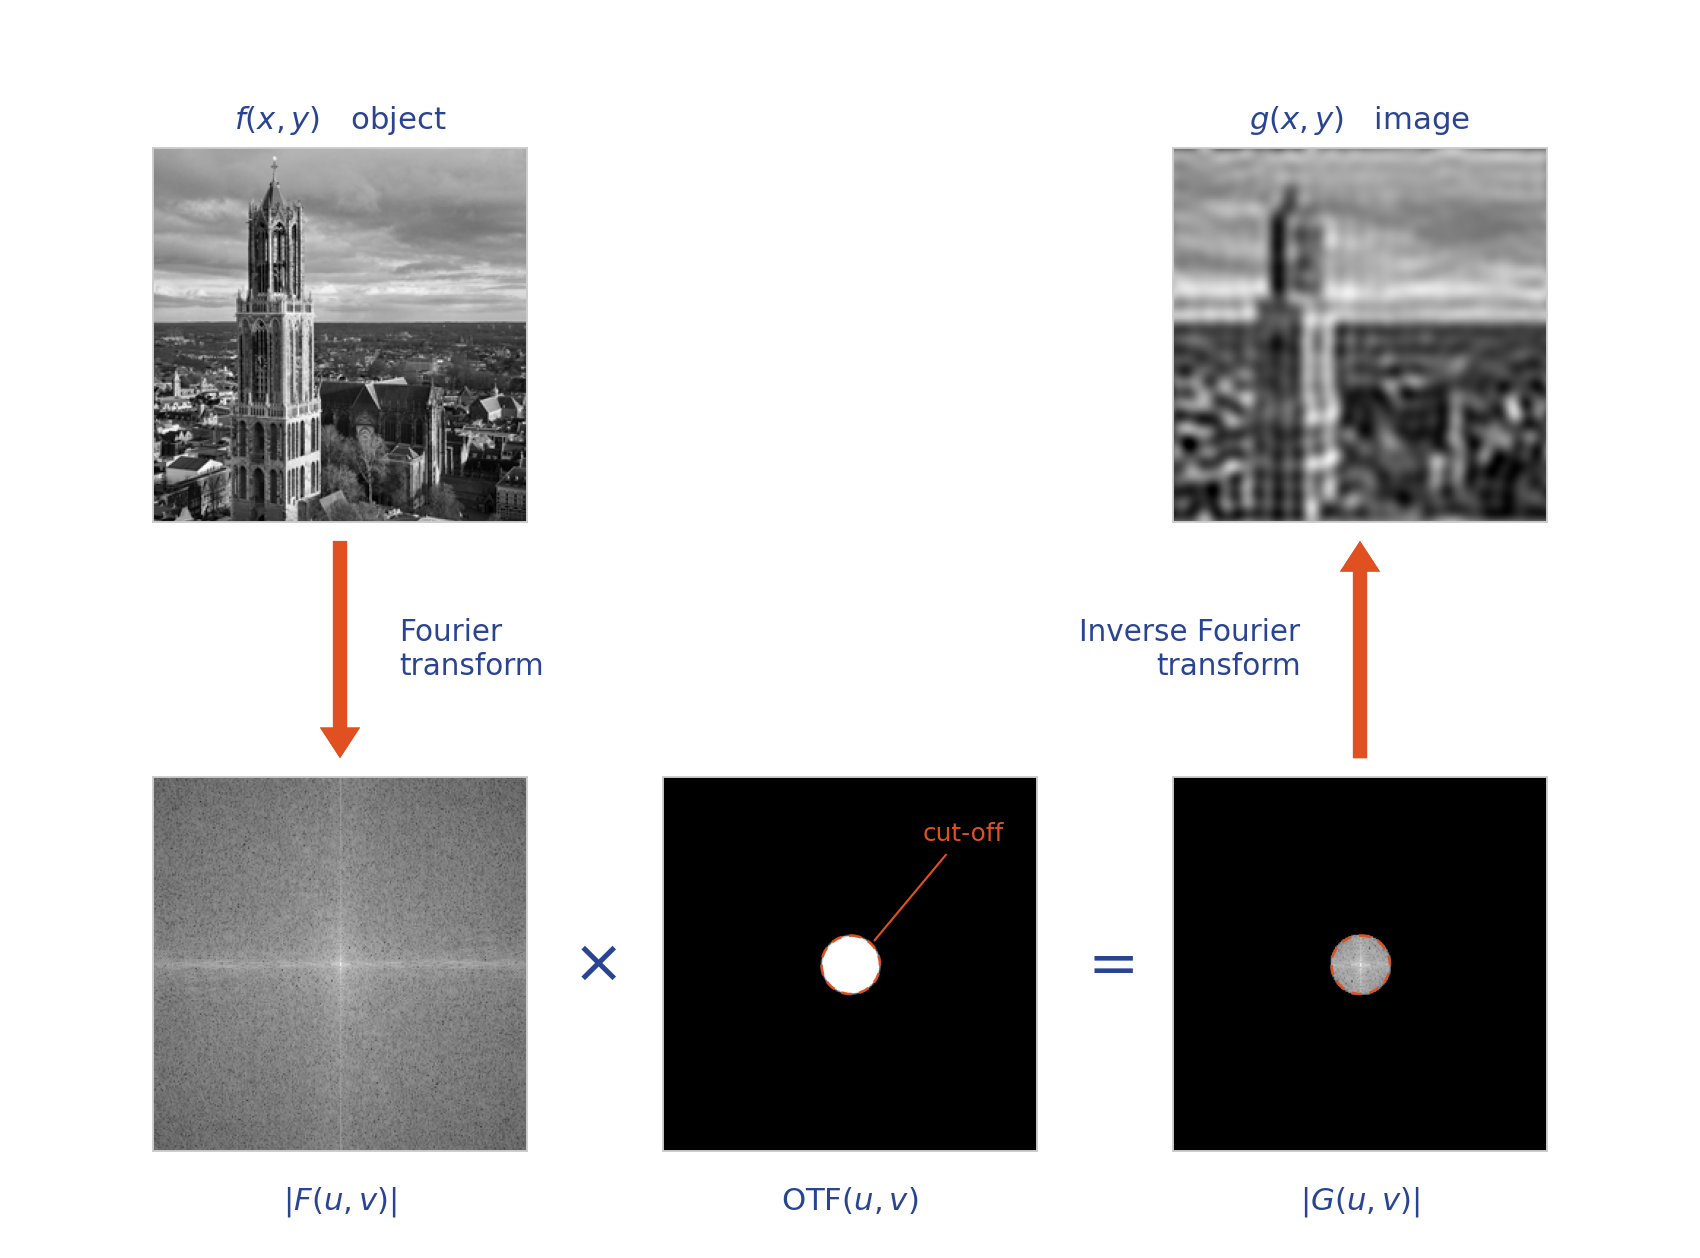
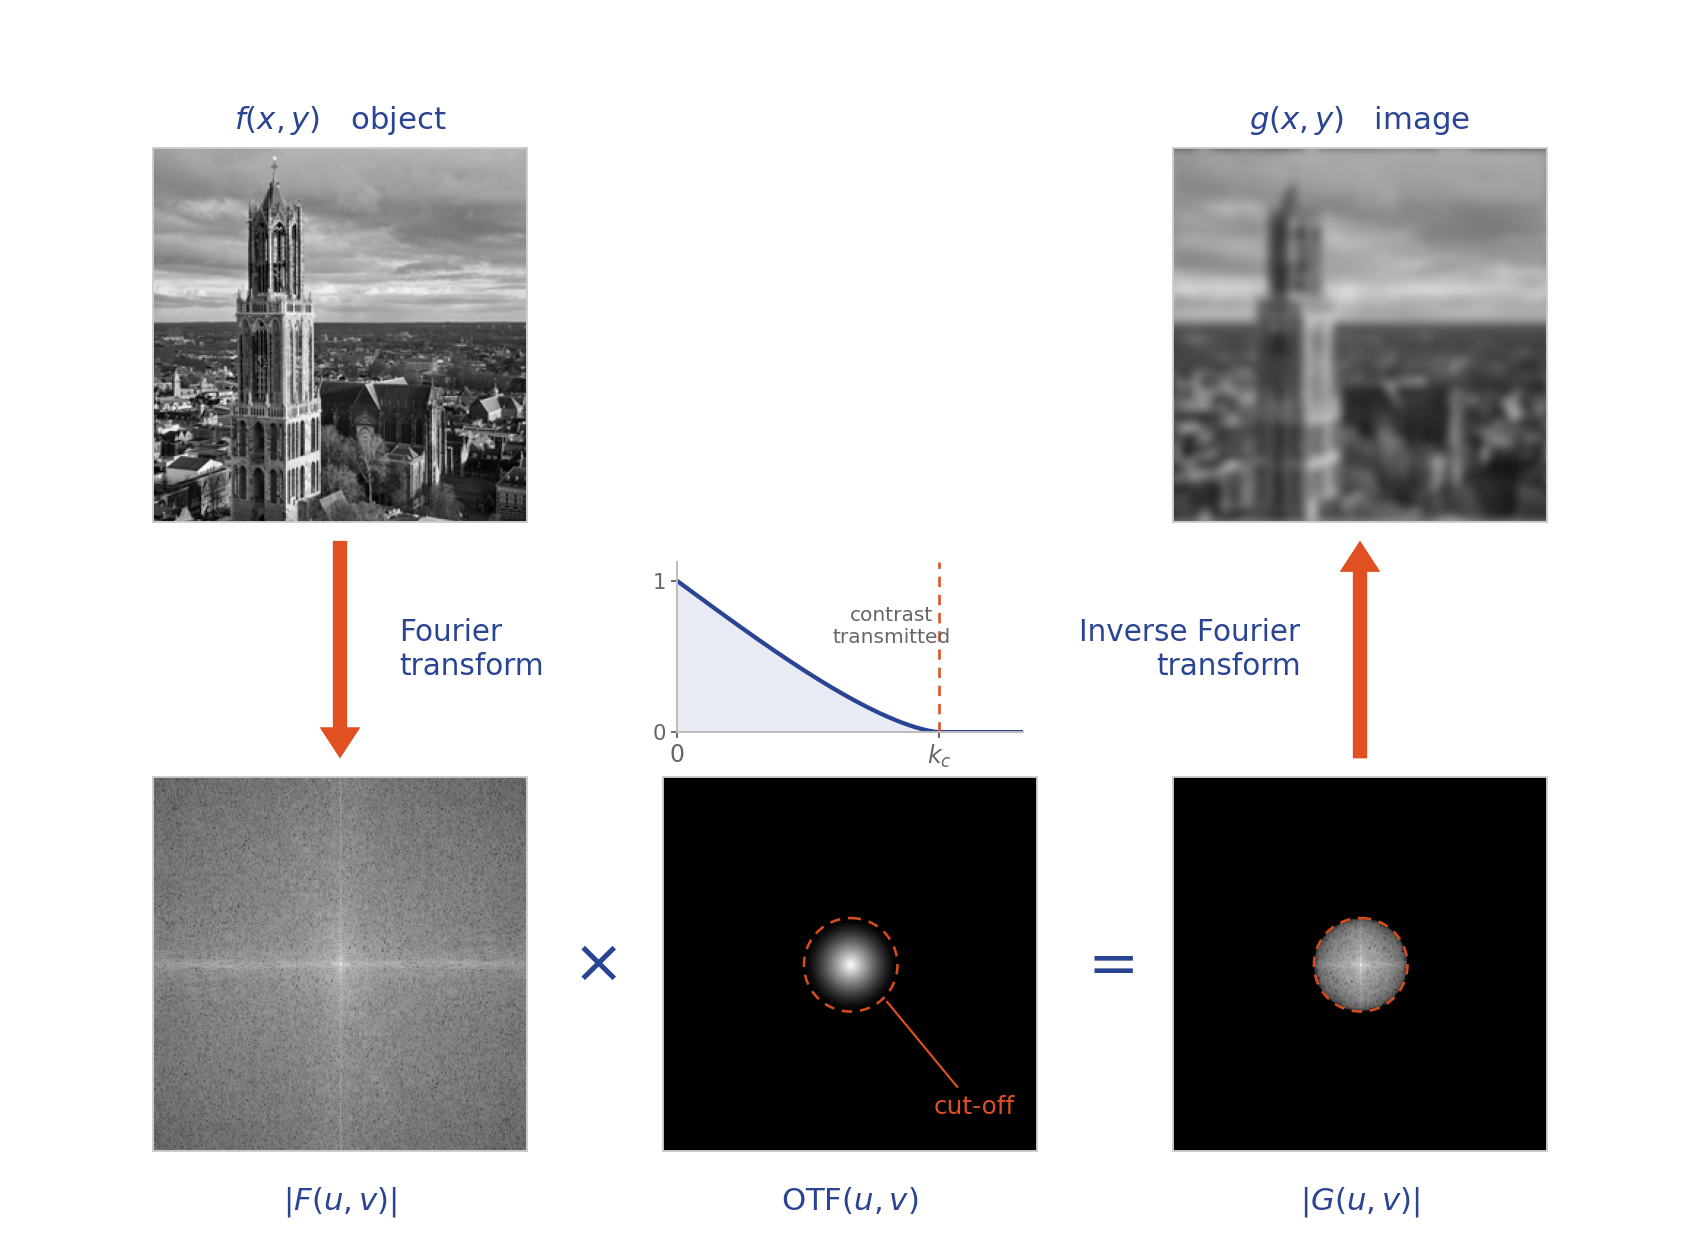
update

diff --git a/book/content/chap6_3.md b/book/content/chap6_3.md
@@ -1,6 +1,6 @@
 # Fourier optics in microscopy
 
-So far we have built the machinery: in the far field we measure the Fourier transform of the object, a converging lens brings that transform into its back focal plane, and the finite objective behaves like a circular aperture that discards the high spatial frequencies, spreading every point into an Airy disk. All of this was, admittedly, rather abstract. In this section we cash in that theory. We will learn to look at an image as a spectrum of spatial frequencies, to describe blurring as a single elegant operation called convolution, and to understand precisely what image processing can and cannot recover. These ideas underpin deconvolution, pixel reassignment and even the way we honestly measure the resolution of a microscope from the data itself.
+So far we have built the machinery: in the far field we measure the Fourier transform of the object, a converging lens brings that transform into its back focal plane, and the finite objective behaves like a circular aperture that discards the high spatial frequencies, spreading every point into an Airy disk. In this section we try to talk more practically about images in terms of spatial frequencies, to describe blurring as a single elegant operation called convolution, and to understand precisely what image processing can and cannot recover.
 
 ## Images in terms of spatial frequencies
 
@@ -21,11 +21,13 @@ This is the heart of the matter. Any image, no matter how complicated, can be wr
 
 There is a simple and extremely useful rule for reading these maps. The **center of the transform holds the low frequencies**: the coarse, slowly varying content, the overall shapes and the average brightness. The **outskirts hold the high frequencies**: the sharp edges, the fine textures and the small details. This is precisely the intuition we met with the rolling hills at the start of the chapter, where the smooth sky sat at the lowest frequencies and the grass blades at the highest, now made quantitative.
 
+### Types of filters
+
 Take the transform of a photograph, erase everything outside a small disk around the center, and transform back. Out comes the same picture, softened. The outlines are still there, the fine texture has gone. Now do the opposite and erase the middle instead. The uniform areas collapse to a flat grey, the overall brightness vanishes, and what is left behind is a map of edges. Nothing was added to the image in either case. We only chose which gratings to keep.
 
-Those two experiments have names, and between them they cover most of what filtering does to a picture. A **low-pass** filter keeps the central disk and throws away the rest, which smooths the image and, since noise lives mostly out at high frequencies, removes a good deal of it. The bill is paid in genuine fine detail, which lived out there too. A Gaussian blur is a low-pass filter with a soft edge, nothing more. A **high-pass** filter blocks the center instead. It sharpens edges, but its real use in the lab is more mundane: uneven illumination, a haze of out-of-focus fluorescence, a gradient left by a badly seated filter, all of it varies slowly across the field and therefore lives at the very lowest frequencies, and a high-pass strips it out without touching the structures you actually care about.
+Those two experiments have names, and between them they cover most of what filtering does to a picture. A **low-pass** filter keeps the central disk and throws away the rest, which smooths the image and, since noise lives mostly out at high frequencies, removes a good deal of it. The bill is paid in genuine fine detail, which lived out there too. A Gaussian blur is a low-pass filter with a soft edge, nothing more. A **high-pass** filter blocks the center instead. It sharpens edges, but its real use in the lab is more mundane: uneven illumination, a haze of out-of-focus fluorescence, a gradient left by a badly seated filter, all vary slowly across the field and therefore lives at the very lowest frequencies, and a high-pass strips it out without touching the structures you actually care about.
 
-A **band-pass** filter keeps a ring, so it selects a size. Anything much coarser than the chosen scale goes out with the background, anything much finer goes out with the noise, and what survives is whatever sits in between. Most spot detectors work this way; the difference-of-Gaussians used to pick out fluorescent puncta is a band-pass filter written in another notation. A **directional** filter keeps a wedge, so it selects an orientation. Here it pays to remember where the spots of a grating sit: along the direction in which the brightness varies, which is across the stripes and not along them. A wedge therefore keeps the structures that run at right angles to it, and that catches almost everyone out the first time.
+A **band-pass** filter keeps a ring, so it selects a size. Anything much coarser than the chosen scale goes out with the background, anything much finer goes out with the noise, and what survives is whatever sits in between. Most spot detectors work this way. A **directional** filter keeps a wedge, so it selects an orientation. Here it pays to remember where the spots of a grating sit: along the direction in which the brightness varies, which is across the stripes and not along them. A wedge therefore removes the structures that run orthogonally to it and keeps the others.
 
 :::{raw} html
 <center><iframe src="../content/spatial_filter_widget.html" width="90%" height="800px" frameborder="0" style="border: none;"></iframe></center>
@@ -33,17 +35,17 @@ A **band-pass** filter keeps a ring, so it selects a size. Anything much coarser
 
 ### Filtering in the back focal plane
 
-If the aperture of the objective acts as a mask, then the Fourier plane is not a mathematical convenience. It is a real plane, a few millimetres across, sitting inside the instrument. We saw earlier in this chapter that a lens brings the far field of the sample into its back focal plane, which means the spectrum of your specimen is physically laid out in there, waiting. You can reach in with a piece of metal and edit it. Several of the classical contrast methods are nothing more than that, and it is worth recognising them for what they are.
+If the aperture of the objective acts as a mask, then the Fourier plane is a real plane sitting inside the instrument. We saw earlier in this chapter that a lens brings the far field of the sample into its back focal plane, which means the spectrum of your specimen is physically laid out in there. Several of the classical contrast methods do nothing more than employing some sort of filtering in the Fourier plane.
 
-Place an opaque disk on the axis and you block the zero order: the undiffracted light, the part of the beam that went through the sample without noticing it, which is the DC term and sits dead center in the back focal plane. Everything that then reaches the image has been scattered by the specimen. The background goes black and the scatterers light up. This is **darkfield**, and in the language of this section it is a high-pass filter machined out of brass. In practice it is usually arranged from the illumination side instead, with a hollow cone of light steep enough to miss the objective entirely, but the effect on the spectrum is the same: the zero order is kept out of the image.
+Place an opaque disk on the axis and you block the zero order (the undiffracted light, the part of the beam that went through), which sits in the center of the back focal plane. Everything that then recombines to form the image has been scattered by the specimen and contains information about it. The background goes black and the scatterers light up. This is exactly what we measure in **darkfield** microscopy, and in the language of this section it is a simple high-pass filter.
 
-The reverse trick is just as common. Put a pinhole at the focus of a beam expander and only the low frequencies of the beam survive, so the speckle and the diffraction rings cast by every speck of dust upstream disappear. Every laser system in the building has one. It is called a spatial filter because that is what it is.
+The reverse trick is just as common. Put a pinhole at the focus of a beam expander and only the low frequencies of the beam survive, so the speckle and the diffraction rings cast by every speck of dust upstream disappear.
 
 ### Noise in the Fourier space
 
-Everything we have done so far assumed a clean image. Real measurements are not clean, and noise is the reason spatial filtering is useful rather than magical. In fluorescence microscopy the dominant contribution is _shot noise_: light arrives as discrete photons, and the number counted in a pixel during the exposure follows a Poisson distribution, so it fluctuates from pixel to pixel even when the sample is perfectly uniform. On top of it sits the read noise of the detector. What matters for us is a property both share: the fluctuation in one pixel is independent of the fluctuation in its neighbours.
+Everything we have done so far assumed a clean image, but real measurements are acually always affected by noise. In fluorescence microscopy the dominant contribution is _shot noise_: light arrives as discrete photons, and the number counted in a pixel during the exposure follows a Poisson distribution. Shot noise fluctuates from pixel to pixel even when the sample is perfectly uniform. On top of it sits the _read noise_ of the detector. What matters for us is a property both share: the fluctuation in one pixel is independent of the fluctuation in its neighbours.
 
-That single property decides everything about how noise looks in Fourier space. Transforming noise produces no compact feature at all, but simply another random field, with, on average, the same power at every spatial frequency. This is what is meant by calling such noise **white**. The transform of noise is noise ({numref}`Fig. {number} <noise_fourier>`), spread thinly and evenly over the entire spectrum, and there is nowhere to aim a mask.
+Transforming noise produces only another random field of noise, with, on average, the same power at every spatial frequency. This is what is meant when we refer to this as **white noise** (just like the color white, containing all the visible frequencies). The transform of noise is noise ({numref}`Fig. {number} <noise_fourier>`), spread evenly over the entire spectrum.
 
 ```{figure} ../figures/chap6_noise_fourier.png
 ---
@@ -51,10 +53,10 @@ width: 100%
 name: noise_fourier
 align: center
 ---
-Noise transforms into noise. The noise alone (left) is grainy in real space and just as grainy in Fourier space, filling the spectrum uniformly rather than collecting anywhere. The noise-free image (centre) has a spectrum concentrated near the origin. The measured image (right) is the sum of the two, so its spectrum is the signal near the centre and the noise floor everywhere, including out where the signal has almost nothing left to say. Photograph by Krzysztof P. Jasiutowicz, CC BY-SA 2.5, via Wikimedia Commons.
+Noise transforms into noise. The noise alone (left) is grainy in real space and just as grainy in Fourier space, filling the spectrum uniformly rather than collecting anywhere. The noise-free image (centre) has a spectrum concentrated near the origin. The measured image (right) is the sum of the two, so its spectrum is dominated by the signal near the centre and by the noise everywhere else. Photograph by Krzysztof P. Jasiutowicz, CC BY-SA 2.5, via Wikimedia Commons.
 ```
 
-Now put the two spectra side by side. The signal is concentrated at low frequencies and its power falls steeply as we move outwards, while the noise floor stays flat all the way to the edge. The two curves must therefore cross ({numref}`Fig. {number} <noise_spectra>`). Below the crossing the image is mostly signal; above it, mostly noise.
+Now let's put the two spectra side by side. The signal is concentrated at low frequencies and its power falls steeply as we move outwards, while the noise floor stays flat all the way to the edge. The two curves must therefore cross ({numref}`Fig. {number} <noise_spectra>`). Below the crossing the image is mostly signal; above it, mostly noise.
 
 ```{figure} ../figures/chap6_noise_spectra.png
 ---
@@ -65,31 +67,29 @@ align: center
 Radially averaged power of the three images above. The signal (blue) falls by more than four orders of magnitude across the spectrum, while the noise (grey) is flat. Beyond the frequency where they cross, the measured image (orange) is essentially pure noise.
 ```
 
-This picture explains both the power and the limits of filtering. Its power: a low-pass filter placed near the crossing throws away the band where there is almost no signal left to lose and a great deal of noise to gain by discarding, which is why smoothing genuinely improves the appearance of a noisy image. Its limit: below the crossing, signal and noise sit at exactly the same spatial frequencies, superimposed. A mask can only multiply a frequency as a whole; it has no way of telling which part of the amplitude at that frequency came from the sample and which part came from the photon statistics. Filtering can improve the signal-to-noise ratio by removing the frequencies where noise dominates, but it can never remove noise completely, and every attempt to push it further removes real detail along with it.
+This picture explains both the power and the limits of filtering. In fact, a low-pass filter placed near the crossing throws away the band where there is almost no signal left to lose and a great deal of noise to gain by discarding, which is why smoothing genuinely improves the appearance of a noisy image. At the same time, below the crossing, signal and noise sit at exactly the same spatial frequencies, superimposed. A mask can only multiply a frequency as a whole; it has no way of telling which part of the amplitude at that frequency came from the sample and which part came from the photon statistics. Filtering can improve the signal-to-noise ratio by removing the frequencies where noise dominates, but it can never remove noise completely, and every attempt to push it further removes real detail along with it.
 
-The only honest cure is more photons. Averaging $n$ independent frames adds the signal coherently and the noise incoherently, improving the signal-to-noise ratio by $\sqrt{n}$ and pushing the crossing point outwards. Keep that crossing in mind for the next two sections. Deconvolution, which is coming shortly, works by boosting the frequencies that the microscope transmitted weakly, and the more weakly a frequency was transmitted the harder it has to be boosted; where the response of the instrument nearly vanishes, the boost lands almost entirely on noise. Fourier Ring Correlation, at the end of the chapter, turns the same fact to its advantage: the noise in two independent acquisitions is uncorrelated while the signal is identical, so two recordings of the same sample stop agreeing with one another right about where the noise takes over.
+The only honest cure is to collect more photons. Averaging $n$ independent frames adds the signal coherently and the noise incoherently, improving the signal-to-noise ratio by $\sqrt{n}$ and pushing the crossing point outwards. 
 
 ## Convolution
 
-We are now ready for what is arguably the most important equation in this whole chapter. Every real image is a blurred version of the true object, and the blurring agent is the point spread function. Because the imaging system responds to each individual point of the object by drawing a PSF there, scaled by how bright that point is, the recorded image is built by stamping a copy of the PSF at every object point and summing them all up. This "stamp everywhere and add" operation is called a **convolution**, written with the symbol $\ast$:
+Every real image is a blurred version of the true object, and the blurring agent is the point spread function. Because the imaging system responds to each individual point of the object by drawing a PSF there, scaled by how bright that point is, the recorded image is built by stamping a copy of the PSF at every object point and summing them all up. This "stamp everywhere and add" operation is called a **convolution**, written with the symbol $\ast$:
 
 $$
 i(\vec r) = (o \ast \text{PSF})(\vec r) = \int o(\vec r\,') \, \text{PSF}(\vec r - \vec r\,') \, d\vec r\,'
 $$
 
-where $o$ is the true object, $i$ is the measured image and PSF is the point spread function. In words: the image is the object convolved with the point spread function. This single line summarizes image formation in a microscope.
+where $o$ is the true object, $i$ is the measured image and PSF is the point spread function. In words: the image is the object convolved with the point spread function.
 
-Convolutions are awkward to compute and even more awkward to reason about directly. This is where Fourier optics rewards us greatly, through the **convolution theorem**: a convolution in real space becomes a plain multiplication in frequency space. Transforming the equation above, we get
+Convolutions are awkward to compute and even more awkward to reason about in intuitive terms. This is where Fourier optics comes in handy, through the **convolution theorem**: a convolution in real space becomes a plain multiplication in frequency space. Transforming the equation above, we get
 
 $$
 \hat i(\vec k) = \hat o(\vec k) \cdot \text{OTF}(\vec k)
 $$
 
-where the hats denote Fourier transforms and $\text{OTF} = \mathcal{F}\{\text{PSF}\}$ is the **optical transfer function**. Its modulus is called the modulation transfer function (MTF) and tells us how strongly each spatial frequency survives the trip through the microscope. The OTF is nothing other than the low-pass filter we have been describing: it is close to one for low frequencies, decreases towards higher frequencies, and drops to exactly zero beyond a cutoff set by the numerical aperture (for incoherent imaging, at a spatial frequency of $2\,\text{NA}/\lambda$). Frequencies past that cutoff are not merely attenuated; they are absent.
+where the hats denote Fourier transforms and $\text{OTF} = \mathcal{F}\{\text{PSF}\}$ is the **optical transfer function**. Its modulus tells us how strongly each spatial frequency survives the trip through the microscope. The OTF is nothing other than the low-pass filter we have been describing: it is close to one for low frequencies, decreases towards higher frequencies, and drops to exactly zero beyond a cutoff set by the numerical aperture.
 
 ### The resolution limit is a spatial filtering problem
-
-We have now called the objective a low-pass filter twice without saying what the filter actually is. Everything is in place to be precise, and the answer is that the microscope performs, in glass, exactly the operation we have been performing in software.
 
 Recall the two equivalent statements of image formation: in real space, the image is the object convolved with the point spread function, and in Fourier space that convolution becomes the multiplication $\hat i(\vec k) = \hat o(\vec k)\cdot\text{OTF}(\vec k)$. Read the second one again with the eyes of this section. The microscope takes the spectrum of the object and multiplies it by a fixed mask. That is a spatial filtering operation, performed by the optics, and the only difference from the filters we designed ourselves is that we do not get to choose this one ({numref}`Fig. {number} <resolution_lowpass>`).
 
@@ -99,7 +99,7 @@ width: 100%
 name: resolution_lowpass
 align: center
 ---
-Imaging as a filtering operation. The object $f(x,y)$ is transformed, its spectrum $|F(u,v)|$ is multiplied by the transfer function of the objective, and the result $|G(u,v)|$ is transformed back to give the image $g(x,y)$. The OTF is zero beyond the cut-off (dashed circle), so those frequencies are not attenuated but erased: the tower survives, its details do not.
+Imaging as a filtering operation. The object $f(x,y)$ is transformed, its spectrum $|F(u,v)|$ is multiplied by the transfer function of the objective, and the result $|G(u,v)|$ is transformed back to give the image $g(x,y)$. The OTF is zero beyond the cut-off (dashed circle), so those frequencies are not attenuated but erased: the Dom tower of Utrecht survives, its finer details do not.
 ```
 
 For a circular pupil the mask is a disk. Frequencies that fall inside it are transmitted, frequencies that fall outside it are not, and the edge of the disk sits at the cut-off
@@ -108,9 +108,7 @@ $$
 k_c = \frac{2\,\text{NA}}{\lambda}.
 $$
 
-The reciprocal of that cut-off, $1/k_c = \lambda/2\text{NA}$, is the Abbe limit we met in the previous section, and the point spread function belonging to such a band-limited pupil is exactly the Airy disk we derived there. The diffraction limit, the Airy disk and the cut-off of a low-pass filter are three descriptions of one and the same fact.
-
-One caveat before we move on, because the figure simplifies. It draws the transfer function flat across the passband, which is the right cartoon for seeing where the limit comes from, but the true one is not flat: it sags from one at the origin all the way down to zero at the cut-off. The frequencies lying just inside the cut-off are therefore transmitted with hardly any contrast left, and once they are that faint the noise floor of the previous section is quite enough to bury them. What you can actually resolve is set not by the cut-off itself but by the point where the transmitted contrast disappears into the noise. Measuring that point is the whole business of Fourier Ring Correlation, which closes the chapter.
+The reciprocal of that cut-off, $1/k_c = \lambda/2\text{NA}$, is the Abbe limit we met in the previous section. The diffraction limit, the Airy disk and the cut-off of a low-pass filter are three descriptions of the same phenomenon.
 
 ### Deconvolution
 
@@ -120,87 +118,48 @@ $$
 \hat o(\vec k) = \frac{\hat i(\vec k)}{\text{OTF}(\vec k)}
 $$
 
-This is **deconvolution**, and in an ideal noiseless world it would work perfectly. Reality intrudes in two ways. Where the OTF is small, near the cutoff, dividing by it multiplies the ever-present noise by a huge factor, and the reconstruction is swamped by amplified noise rather than restored detail. Where the OTF is exactly zero, beyond the cutoff, the division is undefined: that information was never recorded and cannot be conjured back. Naive deconvolution is therefore an unstable, ill-posed problem.
+This process is called **deconvolution**, and in an ideal noiseless world it would work perfectly. Reality intrudes in two ways. Where the OTF is small, near the cutoff, dividing by it multiplies the inevitable noise by a huge factor, and the reconstruction is swamped by amplified noise rather than restored detail. Second, where the OTF is exactly zero, beyond the cutoff, the division is undefined: that information was never recorded and cannot be conjured back.
 
-Practical deconvolution replaces the blunt division with a regularized estimate that balances sharpening against noise. The **Wiener filter** weights each frequency by how much signal it is likely to contain relative to noise, tapering the correction where the OTF is weak. **Iterative methods** such as Richardson-Lucy repeatedly refine a guess of the object while enforcing sensible constraints, most usefully that brightness cannot be negative, which suits the Poisson statistics of photon counting. These algorithms recover a great deal of the detail that lies within the passband, without exploding the noise.
+Practical deconvolution replaces the blunt division with a regularized estimate that balances sharpening against noise. For instance, the **Wiener filter** weights each frequency by how much signal it is likely to contain relative to noise, tapering the correction where the OTF is weak. Iterative methods repeatedly refine a guess of the object while enforcing sensible constraints, first and foremost that brightness cannot be negative. These algorithms recover a great deal of the detail that lies within the passband, without exploding the noise.
 
-The strengths and weaknesses of deconvolution follow directly from this picture. Its advantages are real:
+The strengths and weaknesses of deconvolution follow directly from this. The advantages are:
 
-- improved resolution and contrast within the microscope's passband;
+- improved detail and contrast within the microscope's passband;
 - restoration of detail that blurring had smeared but not destroyed;
 - better quantitative accuracy, since intensities are reassigned closer to their true positions;
 - partial correction of spherical aberration when the PSF is measured under the same conditions;
-- a cost-effective improvement, since it is done in software on existing hardware.
+- a cost-effective improvement, since it is done via software.
 
-Its drawbacks are equally real:
+Its drawbacks are:
 
 - it is computationally intensive, especially in three dimensions;
-- it depends critically on an accurate PSF, whether measured or modeled;
-- it can introduce artifacts, ringing and spurious structures, if pushed too hard;
-- it can lose genuine information if over-regularized;
-- it is unreliable on noisy data, where the amplification problem bites hardest.
+- it depends critically on an accurate PSF measurement (or modelling);
+- it can introduce artifacts if pushed too hard;
+- it is unreliable on noisy data.
 
 The honest bottom line is that deconvolution optimally restores the frequencies the microscope actually captured, but it does not break the diffraction limit: it cannot recover what was lost beyond the cutoff.
 
-### Pixel reassignment
-
-Confocal microscopy improves resolution and provides optical sectioning by placing a pinhole in front of the detector, rejecting out-of-focus and off-axis light. There is a catch familiar to every confocal user: the tighter the pinhole, the better the resolution but the less light reaches the detector, so the sharpest setting is also the noisiest. It is natural to ask whether we can keep the resolution gain without paying in photons. Pixel reassignment is the elegant answer.
-
-The trick, known as **image scanning microscopy** (ISM), is to replace the single-point detector behind the pinhole with a small array of detectors, a miniature camera. At every position of the scanning spot we now record not one number but a little sub-image of the local PSF. The key insight, due originally to Colin Sheppard, is that a photon landing on an off-center detector element did not most likely come from directly under the excitation spot, nor from directly under that element, but from a point roughly halfway between the two. This is because the effective PSF of the system is the product of the excitation and detection PSFs, and that product peaks between their centers. The correct thing to do, therefore, is to shift, or **reassign**, each off-center sub-image inward by about half of its offset before summing everything together ({numref}`Fig. {number} <ism>`).
-
-```{figure} ../figures/ism.png
----
-width: 90%
-name: ism
-align: center
----
-Pixel reassignment in image scanning microscopy. Light detected off-axis most likely originated from a point between the excitation and detection PSF peaks, so each sub-image is shifted inward before all are summed.
-```
-
-The payoff is a resolution improvement of a factor of $\sqrt{2}$ over the widefield or open-pinhole confocal case, equivalent to what a fully closed pinhole would give but without discarding the light, since every photon is kept and simply placed where it belongs. The best-known commercial implementation is the Zeiss Airyscan detector, a small hexagonal array of elements that performs exactly this reassignment.
-
-It is worth reading this in Fourier space as well, because that is where the gain comes from. We said that the effective PSF is the product of the excitation and detection PSFs. A product in real space is a convolution in frequency space, so the effective transfer function of the instrument is the excitation OTF convolved with the detection OTF, and convolving two functions gives something as wide as the two of them put together. The passband of a scanning microscope therefore reaches out to twice the cut-off of either lens on its own. It records frequencies that a widefield microscope never sees at all.
-
-That is a different kind of claim from anything deconvolution can make. Deconvolution reweights frequencies that are already sitting in the file; here the passband itself is wider. The catch is that this extended part of the transfer function is very weak, which is why reassignment on its own buys a factor of $\sqrt{2}$ rather than $2$, and why a deconvolution applied afterwards, boosting those faint frequencies back up, moves you towards the factor of $2$ that the wider passband allows in principle.
-
-Its advantages and drawbacks make an instructive contrast with deconvolution. On the positive side:
-
-- resolution improved by a factor of $\sqrt{2}$, with better contrast;
-- restoration of detail while keeping essentially all the collected light;
-- computational efficiency, often fast enough for near-real-time imaging;
-- wide applicability across fluorescence samples;
-- a cost-effective improvement over a plain confocal.
-
-On the negative side:
-
-- it still depends on an accurate PSF;
-- it is ineffective for thick, scattering samples, where the neat geometric assumption breaks down;
-- misplacement of photons can occur, though, unlike deconvolution, it does not manufacture artifacts;
-- it does not reduce noise, only relocates signal.
-
-The deeper lesson is that pixel reassignment is a physical, optical rearrangement of light that is robust and artifact-free, whereas deconvolution is a numerical inversion that is more powerful but more prone to inventing structure. The two are complementary, and modern instruments increasingly use both.
-
 ## Fourier Ring Correlation (FRC)
 
-We close with a practical question that the theoretical resolution limits cannot answer. Abbe and Rayleigh tell us the best resolution the optics could ever achieve, but the resolution of an actual image also depends on noise, labeling density, sample contrast and drift. How can we measure the true, effective resolution of a real image, from the data alone? **Fourier Ring Correlation** provides an objective answer, and it does so with the frequency-space thinking we have developed throughout this section.
+Abbe and Rayleigh tell us the best resolution the optics could ever achieve, but the resolution of an actual image also depends on noise, labeling density, sample contrast and drift. How can we measure the true, effective resolution of a real image, from the data alone? **Fourier Ring Correlation** provides an objective answer, and it does so with the frequency-space framework we have developed throughout this chapter.
 
-The idea, borrowed from the Fourier Shell Correlation used in cryo-electron microscopy, is to acquire two independent images of the same structure that share the same underlying signal but carry independent noise. In practice this is done by splitting the acquisition into two halves, for example odd and even camera frames, or two consecutive exposures, or two halves of the localizations in single-molecule imaging. We then compute the Fourier transform of each half and, for every ring of constant spatial frequency in the transform, measure how well the two transforms agree over that ring:
+The idea is to acquire two independent images of the same structure that share the same underlying signal but carry independent noise. In practice this is done by splitting the acquisition into two halves, for example odd and even camera frames, or two consecutive exposures, or two halves of the localizations in single-molecule imaging. We then compute the Fourier transform of each half and, for every ring of constant spatial frequency in the transform, measure how well the two transforms correlate over that ring:
 
 $$
 \text{FRC}(k) = \frac{\displaystyle\sum_{\vec k \in \text{ring}(k)} \hat i_1(\vec k)\,\hat i_2^{\,*}(\vec k)}{\sqrt{\displaystyle\sum_{\vec k \in \text{ring}(k)} |\hat i_1(\vec k)|^2 \sum_{\vec k \in \text{ring}(k)} |\hat i_2(\vec k)|^2}}
 $$
 
-where $\hat i_1$ and $\hat i_2$ are the transforms of the two halves and the asterisk denotes complex conjugation. The behavior of this correlation as a function of frequency is exactly what our intuition predicts ({numref}`Fig. {number} <frc>`). At low frequencies both images are dominated by the same real signal, so the correlation sits close to one. At high frequencies each image is dominated by its own independent noise, which is uncorrelated between the two, so the correlation falls towards zero.
+where $\hat i_1$ and $\hat i_2$ are the transforms of the two halves and the asterisk denotes complex conjugation. At low frequencies both images are dominated by the same real signal, so the correlation sits close to one. At high frequencies each image is dominated by its own independent noise, which is uncorrelated between the two, so the correlation falls towards zero.
 
-```{figure} ../figures/frc.png
+```{figure} ../figures/chap6_frc.gif
 ---
-width: 80%
+width: 100%
 name: frc
 align: center
 ---
-A Fourier Ring Correlation curve. The correlation stays near one where signal dominates and drops to zero where noise takes over; the frequency at which it crosses the threshold sets the effective resolution.
+Fourier Ring Correlation. Two acquisitions of the same neuron share the signal but not the noise. Their spectra are compared frequency by frequency, bright meaning the two agree, and averaging that agreement over a ring of growing radius traces the curve on the right. Where it crosses the $1/7$ threshold sits $k_{\text{FRC}}$, the finest spatial frequency the data can be trusted to contain. Credits: Sergb95, CC BY-SA 4.0, via Wikimedia Commons
 ```
 
-The frequency $k_{\text{FRC}}$ at which the curve drops below a chosen threshold, commonly the fixed value $1/7 \approx 0.143$ or the so-called three-sigma curve, marks the highest spatial frequency that is reliably present in the data. The effective resolution is simply its inverse, $d = 1/k_{\text{FRC}}$. This is not the diffraction cut-off $k_c$ of a few pages ago, and in any real experiment it falls short of it: the cut-off is what the optics could in principle transmit, while $k_{\text{FRC}}$ is what actually survived the photon statistics of your particular acquisition. That is the point of the measurement. This number reflects the experiment as it happened, noise and all, which is why it has become a standard resolution measure in super-resolution microscopy.
+The frequency $k_{\text{FRC}}$ at which the curve drops below a chosen threshold, commonly the fixed value $1/7 \approx 0.143$ or the so-called three-sigma curve, marks the highest spatial frequency that is reliably present in the data. The effective resolution is simply its inverse, $d = 1/k_{\text{FRC}}$. This number reflects the experiment as it happened, noise and all, which is why it has become a standard resolution measure in super-resolution microscopy.
 
-A couple of caveats keep the method honest. The two halves must share identical signal but truly independent noise; correlated noise, such as a fixed sensor pattern, will make the correlation look better than it should and overstate the resolution. Sample drift between the two acquisitions will do the opposite, degrading the correlation and understating it. Used carefully, however, Fourier Ring Correlation turns the abstract spectra of this chapter into a single, honest number for the resolution of a microscope, which is a fitting place to end our tour of Fourier optics.
+A couple of caveats keep the method honest. The two halves must share identical signal but truly independent noise; correlated noise will make the correlation look better than it should and overstate the resolution. Sample drift between the two acquisitions will do the opposite, degrading the correlation and understating it. Used carefully, however, Fourier Ring Correlation turns the abstract spectra of this chapter into a single, honest number for the resolution of a microscope, which is a fitting place to end our tour of Fourier optics.

diff --git a/book/content/chap6.md b/book/content/chap6.md
@@ -28,4 +28,4 @@ At the end of this chapter you should be able to:
 - Illustrate the relationship between the Fourier transform and the resolution limit
 - Predict how masking a region of the Fourier transform changes the image, and conversely which spectral signature a given image structure produces
 - Explain why noise fills the whole spectrum, and what this implies for the limits of denoising and for deconvolution
-- Discuss the implications of deconvolution and pixel reassignment in image reconstruction
+- Discuss the implications of deconvolution in image reconstruction